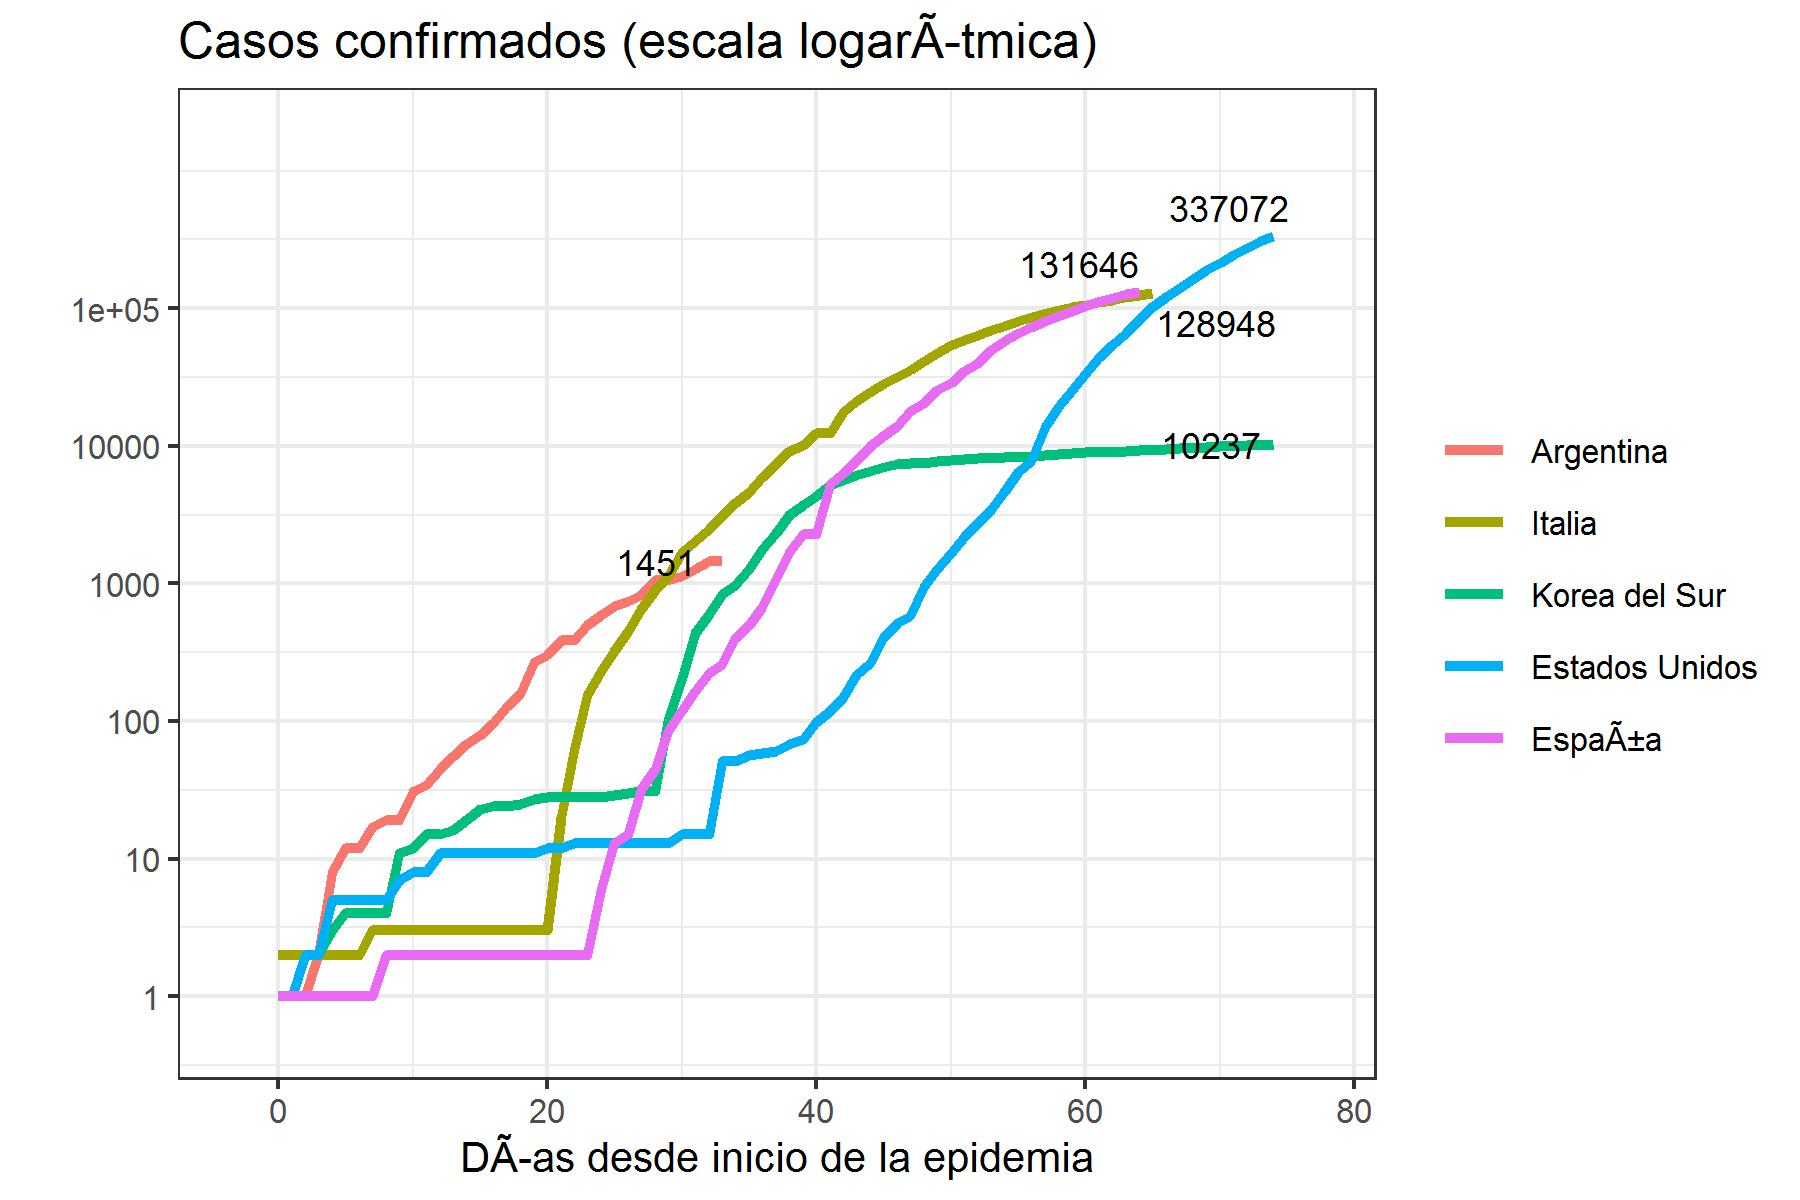
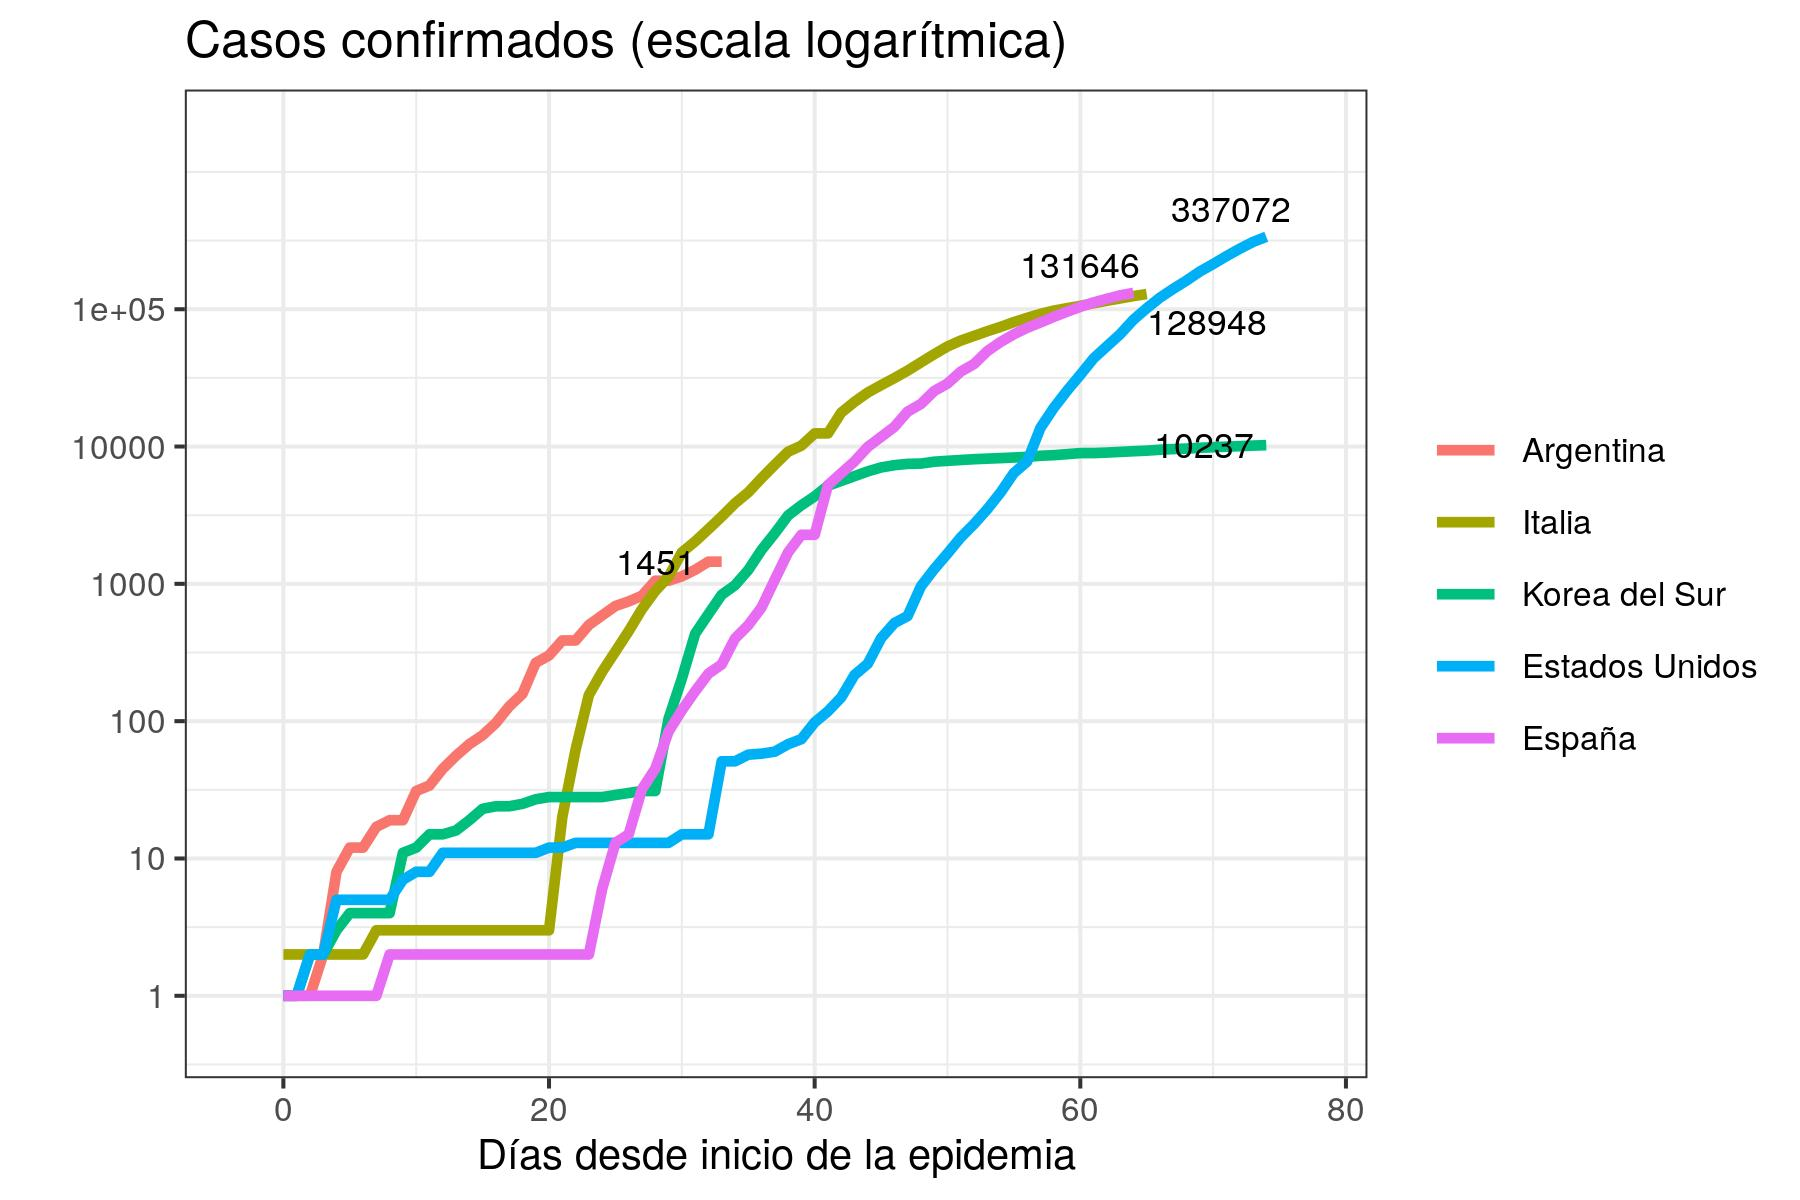
re build - encoding Gus

diff --git a/proyecciones_balcarce.html b/proyecciones_balcarce.html
@@ -1,17 +1,18 @@
 <!DOCTYPE html>
 
-<html>
+<html xmlns="http://www.w3.org/1999/xhtml">
 
 <head>
 
 <meta charset="utf-8" />
+<meta http-equiv="Content-Type" content="text/html; charset=utf-8" />
 <meta name="generator" content="pandoc" />
 <meta http-equiv="X-UA-Compatible" content="IE=EDGE" />
 
 
 
 
-<title>proyecciones_balcarce.utf8</title>
+<title>proyecciones_balcarce.utf8.md</title>
 
 <script src="site_libs/jquery-1.11.3/jquery.min.js"></script>
 <meta name="viewport" content="width=device-width, initial-scale=1" />
@@ -232,7 +233,6 @@ $(document).ready(function () {
   border: none;
   display: inline-block;
   border-radius: 4px;
-  background-color: transparent;
 }
 
 .tabset-dropdown > .nav-tabs.nav-tabs-open > li {

diff --git a/organiza_vete.html b/organiza_vete.html
@@ -1,17 +1,18 @@
 <!DOCTYPE html>
 
-<html>
+<html xmlns="http://www.w3.org/1999/xhtml">
 
 <head>
 
 <meta charset="utf-8" />
+<meta http-equiv="Content-Type" content="text/html; charset=utf-8" />
 <meta name="generator" content="pandoc" />
 <meta http-equiv="X-UA-Compatible" content="IE=EDGE" />
 
 
 
 
-<title>organiza_vete.utf8</title>
+<title>organiza_vete.utf8.md</title>
 
 <script src="site_libs/jquery-1.11.3/jquery.min.js"></script>
 <meta name="viewport" content="width=device-width, initial-scale=1" />
@@ -232,7 +233,6 @@ $(document).ready(function () {
   border: none;
   display: inline-block;
   border-radius: 4px;
-  background-color: transparent;
 }
 
 .tabset-dropdown > .nav-tabs.nav-tabs-open > li {

diff --git a/about_us.html b/about_us.html
@@ -1,17 +1,18 @@
 <!DOCTYPE html>
 
-<html>
+<html xmlns="http://www.w3.org/1999/xhtml">
 
 <head>
 
 <meta charset="utf-8" />
+<meta http-equiv="Content-Type" content="text/html; charset=utf-8" />
 <meta name="generator" content="pandoc" />
 <meta http-equiv="X-UA-Compatible" content="IE=EDGE" />
 
 
 
 
-<title>about_us.utf8</title>
+<title>about_us.utf8.md</title>
 
 <script src="site_libs/jquery-1.11.3/jquery.min.js"></script>
 <meta name="viewport" content="width=device-width, initial-scale=1" />
@@ -232,7 +233,6 @@ $(document).ready(function () {
   border: none;
   display: inline-block;
   border-radius: 4px;
-  background-color: transparent;
 }
 
 .tabset-dropdown > .nav-tabs.nav-tabs-open > li {

diff --git a/index.html b/index.html
@@ -1,17 +1,18 @@
 <!DOCTYPE html>
 
-<html>
+<html xmlns="http://www.w3.org/1999/xhtml">
 
 <head>
 
 <meta charset="utf-8" />
+<meta http-equiv="Content-Type" content="text/html; charset=utf-8" />
 <meta name="generator" content="pandoc" />
 <meta http-equiv="X-UA-Compatible" content="IE=EDGE" />
 
 
 
 
-<title>index.utf8</title>
+<title>index.utf8.md</title>
 
 <script src="site_libs/jquery-1.11.3/jquery.min.js"></script>
 <meta name="viewport" content="width=device-width, initial-scale=1" />
@@ -232,7 +233,6 @@ $(document).ready(function () {
   border: none;
   display: inline-block;
   border-radius: 4px;
-  background-color: transparent;
 }
 
 .tabset-dropdown > .nav-tabs.nav-tabs-open > li {

diff --git a/status_covid19.html b/status_covid19.html
@@ -273,7 +273,7 @@ $(document).ready(function () {
     <div id="navbar" class="navbar-collapse collapse">
       <ul class="nav navbar-nav">
         <li>
-  <a href="status_covid19.html">COVID19 Status</a>
+  <a href="status_covid19.html">Estadísticas COVID-19</a>
 </li>
 <li>
   <a href="proyecciones_balcarce.html">Proyecciones Balcarce</a>
